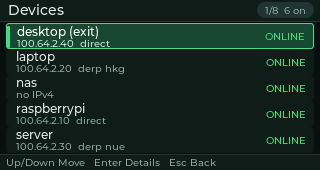
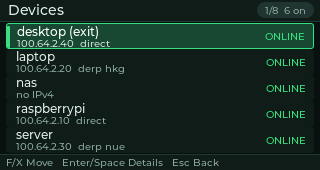
feat(input): letter arrow keys, Space as OK, and held-key auto-repeat
- plain F / X / Z / C act as up / down / left / right without the Fn modifier
  (the Cardputer keyboard prints its arrow shortcuts on those keys and TailZero
  never needs text input); the real arrow keycodes keep working too
- Space is accepted as a redundant confirm key next to Enter/OK
- holding a navigation key auto-repeats after ~0.4 s (one step every 90 ms), so
  long pages such as Network check keep scrolling instead of needing repeated
  taps; Enter/Esc never auto-repeat
- hint bars advertise the letter arrows and Enter/Space
- new tools/device/key-features-test.sh verifies Space-as-OK, letter arrows and
  held-key scrolling on the device through injected uinput keys
- injector gained KEY_SPACE / KEY_KPENTER and always rebuilds from source
- docs, store copy and the four screenshots refreshed for the new hint bars

Changed region(s): [[0.0312, 0.9118, 0.6875, 1.0]]

diff --git a/src/input/keypad.cpp b/src/input/keypad.cpp
@@ -27,6 +27,13 @@ constexpr const char* kPreferredDevices[] = {
     "/dev/input/by-path/platform-3f804000.i2c-event-kbd",
 };
 
+bool is_repeatable_key(uint32_t key) {
+    /* Holding an arrow should keep scrolling long pages instead of requiring
+       repeated taps. Enter/Esc/letters are never auto-repeated. */
+    return key == LV_KEY_UP || key == LV_KEY_DOWN || key == LV_KEY_LEFT ||
+           key == LV_KEY_RIGHT;
+}
+
 bool has_keyboard_keys(int fd) {
     unsigned long key_bits[(KEY_MAX / (sizeof(unsigned long) * 8)) + 1] = {};
     if (ioctl(fd, EVIOCGBIT(EV_KEY, sizeof(key_bits)), key_bits) < 0) {
@@ -65,6 +72,22 @@ uint32_t map_linux_key(uint16_t code) {
             return LV_KEY_HOME;
         case KEY_END:
             return LV_KEY_END;
+        /* Redundant confirm key: Enter/OK and Space both activate. */
+        case KEY_SPACE:
+            return LV_KEY_ENTER;
+
+        /* The Cardputer Zero keyboard has no dedicated arrow keys: the official
+           Fn shortcuts are Fn+F / Fn+X (previous / next) and Fn+Z / Fn+C
+           (left / right). TailZero never needs text input, so the plain letters
+           act as arrow keys as well — no Fn modifier required. */
+        case KEY_F:
+            return LV_KEY_UP;
+        case KEY_X:
+            return LV_KEY_DOWN;
+        case KEY_Z:
+            return LV_KEY_LEFT;
+        case KEY_C:
+            return LV_KEY_RIGHT;
         case KEY_PAGEUP:
             return LV_KEY_PREV;
         case KEY_PAGEDOWN:
@@ -80,12 +103,12 @@ uint32_t map_linux_key(uint16_t code) {
     } kAscii[] = {
         {KEY_1, '1'}, {KEY_2, '2'}, {KEY_3, '3'}, {KEY_4, '4'}, {KEY_5, '5'},
         {KEY_6, '6'}, {KEY_7, '7'}, {KEY_8, '8'}, {KEY_9, '9'}, {KEY_0, '0'},
-        {KEY_A, 'a'}, {KEY_B, 'b'}, {KEY_C, 'c'}, {KEY_D, 'd'}, {KEY_E, 'e'},
-        {KEY_F, 'f'}, {KEY_G, 'g'}, {KEY_H, 'h'}, {KEY_I, 'i'}, {KEY_J, 'j'},
+        {KEY_A, 'a'}, {KEY_B, 'b'}, {KEY_D, 'd'}, {KEY_E, 'e'},
+        {KEY_G, 'g'}, {KEY_H, 'h'}, {KEY_I, 'i'}, {KEY_J, 'j'},
         {KEY_K, 'k'}, {KEY_L, 'l'}, {KEY_M, 'm'}, {KEY_N, 'n'}, {KEY_O, 'o'},
         {KEY_P, 'p'}, {KEY_Q, 'q'}, {KEY_R, 'r'}, {KEY_S, 's'}, {KEY_T, 't'},
-        {KEY_U, 'u'}, {KEY_V, 'v'}, {KEY_W, 'w'}, {KEY_X, 'x'}, {KEY_Y, 'y'},
-        {KEY_Z, 'z'}, {KEY_SPACE, ' '}, {KEY_MINUS, '-'}, {KEY_EQUAL, '='},
+        {KEY_U, 'u'}, {KEY_V, 'v'}, {KEY_W, 'w'}, {KEY_Y, 'y'},
+        {KEY_MINUS, '-'}, {KEY_EQUAL, '='},
         {KEY_DOT, '.'}, {KEY_SLASH, '/'}, {KEY_APOSTROPHE, '\''},
     };
     for (const auto& entry : kAscii) {
@@ -228,15 +251,16 @@ void Keypad::handle_raw_event(uint16_t code, int value) {
         pressed_ = true;
         active_key_ = key;
         press_started_ms_ = lv_tick_get();
+        last_repeat_ms_ = press_started_ms_;
         long_press_sent_ = false;
         if (handler_) {
-            handler_(KeyEvent{key, true, false});
+            handler_(KeyEvent{key, true, false, false});
         }
     }
     else {
         if (pressed_ && active_key_ == key) {
             if (handler_) {
-                handler_(KeyEvent{key, false, false});
+                handler_(KeyEvent{key, false, false, false});
             }
             pressed_ = false;
             active_key_ = 0;
@@ -261,12 +285,26 @@ void Keypad::read_cb(lv_indev_t* indev, lv_indev_data_t* data) {
         data->continue_reading = true;
     }
 
-    /* Long press detection: LVGL polls the indev every few ms. */
-    if (self->pressed_ && !self->long_press_sent_ &&
-        lv_tick_elaps(self->press_started_ms_) >= static_cast<uint32_t>(kLongPressMs)) {
-        self->long_press_sent_ = true;
-        if (self->handler_) {
-            self->handler_(KeyEvent{self->active_key_, true, true});
+    /* Held keys: Esc becomes a long press (exit), navigation keys auto-repeat
+       so long lists / pages keep scrolling while the key is held down. LVGL
+       polls the indev every few ms, which drives both timers. */
+    if (self->pressed_) {
+        const uint32_t held_ms = lv_tick_elaps(self->press_started_ms_);
+        if (self->active_key_ == LV_KEY_ESC) {
+            if (!self->long_press_sent_ && held_ms >= static_cast<uint32_t>(kLongPressMs)) {
+                self->long_press_sent_ = true;
+                if (self->handler_) {
+                    self->handler_(KeyEvent{self->active_key_, true, true, false});
+                }
+            }
+        }
+        else if (is_repeatable_key(self->active_key_) &&
+                 held_ms >= static_cast<uint32_t>(kRepeatDelayMs) &&
+                 lv_tick_elaps(self->last_repeat_ms_) >= static_cast<uint32_t>(kRepeatIntervalMs)) {
+            self->last_repeat_ms_ = lv_tick_get();
+            if (self->handler_) {
+                self->handler_(KeyEvent{self->active_key_, true, false, true});
+            }
         }
     }
 

diff --git a/src/input/keypad.h b/src/input/keypad.h
@@ -22,14 +22,17 @@ namespace tailzero::input {
 struct KeyEvent {
     uint32_t key = 0;        ///< LVGL key code (LV_KEY_UP, LV_KEY_ENTER, ASCII...)
     bool pressed = false;    ///< edge: true = press, false = release
-    bool long_press = false; ///< true once, ~700 ms after the initial press
+    bool long_press = false; ///< true once, ~700 ms after the initial press (Esc)
+    bool repeat = false;     ///< auto-repeat of a held navigation key
 };
 
 using KeyHandler = std::function<bool(const KeyEvent& event)>;
 
 class Keypad {
 public:
-    static constexpr int kLongPressMs = 700;
+    static constexpr int kLongPressMs = 700;   ///< hold Esc to exit
+    static constexpr int kRepeatDelayMs = 420; ///< hold an arrow this long to auto-repeat
+    static constexpr int kRepeatIntervalMs = 90; ///< auto-repeat period
 
     Keypad() = default;
     ~Keypad();
@@ -66,6 +69,7 @@ private:
     bool pressed_ = false;
     uint32_t active_key_ = 0;
     uint32_t press_started_ms_ = 0;
+    uint32_t last_repeat_ms_ = 0;
     bool long_press_sent_ = false;
 };
 

diff --git a/tools/device/uinput-keys.c b/tools/device/uinput-keys.c
@@ -42,7 +42,8 @@ static const struct {
     const char* name;
     int code;
 } kKeys[] = {
-    {"KEY_ESC", KEY_ESC}, {"KEY_ENTER", KEY_ENTER}, {"KEY_UP", KEY_UP},
+    {"KEY_ESC", KEY_ESC}, {"KEY_ENTER", KEY_ENTER}, {"KEY_KPENTER", KEY_KPENTER},
+    {"KEY_SPACE", KEY_SPACE}, {"KEY_UP", KEY_UP},
     {"KEY_DOWN", KEY_DOWN}, {"KEY_LEFT", KEY_LEFT}, {"KEY_RIGHT", KEY_RIGHT},
     {"KEY_BACKSPACE", KEY_BACKSPACE}, {"KEY_TAB", KEY_TAB}, {"KEY_HOME", KEY_HOME},
     {"KEY_A", KEY_A}, {"KEY_B", KEY_B}, {"KEY_C", KEY_C}, {"KEY_D", KEY_D},

diff --git a/src/ui/screens/home_screen.h b/src/ui/screens/home_screen.h
@@ -20,7 +20,7 @@ protected:
     void build_content() override;
     void refresh_content(const AppState& state, UiModel& ui) override;
     const char* hint_text() const override {
-        return "Up/Down Select   Enter Open   Esc Exit (hold)";
+        return "F/X Select   Enter/Space Open   Esc Exit (hold)";
     }
     Page back_page() const override { return Page::Home; }
     void refresh_status(const AppState& state, UiModel& ui) override;

diff --git a/src/ui/screens/devices_screen.h b/src/ui/screens/devices_screen.h
@@ -21,7 +21,7 @@ protected:
     void build_content() override;
     void refresh_content(const AppState& state, UiModel& ui) override;
     const char* hint_text() const override {
-        return "Up/Down Move   Enter Details   Esc Back";
+        return "F/X Move   Enter/Space Details   Esc Back";
     }
     Page back_page() const override { return Page::Home; }
     void refresh_status(const AppState& state, UiModel& ui) override;

diff --git a/src/ui/screens/netcheck_screen.h b/src/ui/screens/netcheck_screen.h
@@ -24,7 +24,7 @@ protected:
     void build_content() override;
     void refresh_content(const AppState& state, UiModel& ui) override;
     const char* hint_text() const override {
-        return "Up/Down Scroll   Enter Rerun   Esc Back";
+        return "F/X Scroll   Enter/Space Rerun   Esc Back";
     }
     Page back_page() const override { return Page::Home; }
     void refresh_status(const AppState& state, UiModel& ui) override;

diff --git a/src/ui/screens/details_screen.h b/src/ui/screens/details_screen.h
@@ -19,7 +19,7 @@ protected:
     void build_content() override;
     void refresh_content(const AppState& state, UiModel& ui) override;
     const char* hint_text() const override {
-        return "Up/Down Action   Enter Run   Esc Back";
+        return "F/X Action   Enter/Space Run   Esc Back";
     }
     Page back_page() const override { return Page::Devices; }
     void refresh_status(const AppState& state, UiModel& ui) override;

diff --git a/src/ui/screens/ping_screen.h b/src/ui/screens/ping_screen.h
@@ -20,7 +20,7 @@ protected:
     void build_content() override;
     void refresh_content(const AppState& state, UiModel& ui) override;
     const char* hint_text() const override {
-        return "Up/Down Action   Enter Run   Esc Back";
+        return "F/X Action   Enter/Space Run   Esc Back";
     }
     Page back_page() const override { return Page::Details; }
     void refresh_status(const AppState& state, UiModel& ui) override;

diff --git a/PUBLISH.md b/PUBLISH.md
@@ -26,9 +26,9 @@ Fields marked **TODO** are not ready for submission.
 
 | Item | Value |
 | --- | --- |
-| Package file (built on device) | `~/tzdev/TailZero-lead/build/deb/tailzero_0.1.0-1_arm64.deb` — **456,076 B** |
+| Package file (built on device) | `~/tzdev/TailZero-lead/build/deb/tailzero_0.1.0-1_arm64.deb` — **456,444 B** |
 | Package filename contract | `tailzero_0.1.0-1_arm64.deb` (`packagename_version-revision_arm64.deb`) |
-| Installed binary | `/usr/bin/tailzero` — 0755 root:root, **1,189,648 B** |
+| Installed binary | `/usr/bin/tailzero` — 0755 root:root, **1,189,624 B** |
 | Installed package state | `dpkg -s tailzero` → `Status: install ok installed`, `0.1.0-1`, `arm64` |
 | Launcher entry | `/usr/share/APPLaunch/applications/tailzero.desktop` |
 | Icon in package | `/usr/share/APPLaunch/share/images/tailzero.png` (+ `_100`, `_80`) |
@@ -43,7 +43,7 @@ Release evidence collected (2026-11-09):
   Re-run against the final tree with the final sanitized screenshots:
   **passed**.
 - `tools/device/package.sh` produced the final `tailzero_0.1.0-1_arm64.deb`
-  (456,076 B) on the device from the final `build/tailzero` (1,189,648 bytes,
+  (456,444 B) on the device from the final `build/tailzero` (1,189,624 bytes,
   ARM64): `Package tailzero`, `Version 0.1.0-1`, `Architecture arm64`,
   `Section utils`, `Priority optional`,
   `Depends: libc6 (>= 2.36), libstdc++6`, `Recommends: tailscale`,
@@ -51,7 +51,7 @@ Release evidence collected (2026-11-09):
   root-owned files, correct modes, `postinst` warn-only.
 - The package was installed and reinstalled on the device from the final source:
   `dpkg -s tailzero` → `Status: install ok installed`, `Version: 0.1.0-1`,
-  `Architecture: arm64`; `/usr/bin/tailzero` is 0755 root:root, 1,189,648 bytes;
+  `Architecture: arm64`; `/usr/bin/tailzero` is 0755 root:root, 1,189,624 bytes;
   `APPLaunch.service` is active.
 - APPLaunch shows the TailZero entry with its icon and the launcher metadata is
   correct (`Exec=/usr/bin/tailzero`, `Terminal=false`). Verified from launcher
@@ -148,10 +148,10 @@ data**.
 
 | File | Size | Content | SHA-256 |
 | --- | --- | --- | --- |
[8 lines of base64/hex data omitted]
 
 Store-contract requirements: exactly four PNGs at 320×170, no emulator chrome or
 borders, four distinct user-relevant states — all satisfied and verified locally
@@ -230,7 +230,7 @@ Notes:
 - [x] README, docs/OPERATOR.md, docs/DEPLOY.md, docs/TESTING.md written
 - [x] Four sanitized screenshots captured and verified (4 × 320×170, clean
       framebuffer, fictional mock-fixture data)
-- [x] Final package built from the real binary (456,076 B) and installed/reinstalled
+- [x] Final package built from the real binary (456,444 B) and installed/reinstalled
       on the device (`dpkg -s tailzero` → install ok installed, 0.1.0-1 arm64)
 - [x] APPLaunch entry with icon/name verified in the launcher
 - [x] Integration checklist (docs/TESTING.md §5 and §7) completed on the device

diff --git a/docs/TESTING.md b/docs/TESTING.md
@@ -220,7 +220,7 @@ README/PUBLISH records refer to.
 
 ### Build and tests
 
-- `pwsh tools/dev.ps1 build -Slot lead` → `build/tailzero` 1,189,648 bytes and
+- `pwsh tools/dev.ps1 build -Slot lead` → `build/tailzero` 1,189,624 bytes and
   `build/tailzero-ui-preview`; LVGL 9.5.0 prebuilt static, keyed on
   `src/config/lv_conf.h`; zero compiler warnings in `src/ui` and `src/preview`.
 - `pwsh tools/dev.ps1 test -Slot backend` → **83/83 tests passed**: `json_lite`,
@@ -248,12 +248,19 @@ README/PUBLISH records refer to.
   (`tools/device/key-test.sh`): app opens the device, Up/Down selection,
   Enter (Devices → Details → Ping), Esc back and long-Esc clean exit
   ("shutting down") → **PASS**; step screenshots under `.recon/keytest/`.
+- Letter arrows, Space-as-OK and auto-repeat (`tools/device/key-features-test.sh`,
+  injected `KEY_SPACE` / `KEY_X` / `KEY_F` / held `KEY_X`): Space on Home opens
+  Devices exactly like Enter, plain `X` moves the Devices selection down twice
+  (1/8 → 2/8 → 3/8), plain `F` moves it back up (2/8), and holding `X` on the
+  Network check page scrolls continuously from the first rows down to the
+  region-latency rows (~2 s hold) → **PASS**; captures under `.recon/keyfeat/`.
+  The hint bars show `F/X Move`, `Enter/Space`, `F/X Scroll`, etc.
 - Performance (`tools/device/measure.sh`): startup-to-ready **167 ms**, CPU
   **1.5 %** idle with the 5 s refresh, VmRSS **4.4 MB** (VmHWM 4.4 MB), 2 threads,
   6 open fds, binary 1.19 MB.
-- Package/launcher: the final `tailzero_0.1.0-1_arm64.deb` is 456,076 B;
+- Package/launcher: the final `tailzero_0.1.0-1_arm64.deb` is 456,444 B;
   `dpkg -s tailzero` → `install ok installed`, version `0.1.0-1`, arm64;
-  `/usr/bin/tailzero` 0755 root:root 1,189,648 bytes; APPLaunch is active and
+  `/usr/bin/tailzero` 0755 root:root 1,189,624 bytes; APPLaunch is active and
   shows the entry with the TailZero name and icon (`Exec=/usr/bin/tailzero`,
   `Terminal=false`).
 
@@ -282,6 +289,7 @@ All under `tools/device/`; developer-only, **none are shipped in the `.deb`**:
 | `package.sh` | Stage the APPLaunch layout and build the `.deb` |
 | `install-deb.sh` | Validate + `dpkg -i` + APPLaunch restart (`--dry-run`, `--no-build`) |
 | `key-test.sh` | End-to-end physical-key test through uinput, with per-step captures |
+| `key-features-test.sh` | Verifies plain F/X/Z/C arrow keys (no Fn needed) and held-key auto-repeat scrolling |
 | `measure.sh` | Startup latency, CPU%, VmRSS/VmHWM, threads, fds (`measure.sh <binary> [secs] [page]`) |
 | `launcher-integration.sh` | APPLaunch entry/carousel/child-launch check (`[right-presses]`, default 25) |
 | `uinput-keys.c` | uinput virtual-keyboard injector used by the two scripts above |

diff --git a/README.md b/README.md
@@ -59,12 +59,20 @@ JSON, and the daemon restarting while the app is open.
 
 | Key | Action |
 | --- | --- |
-| `Up` / `Down` | Move the selection (lists scroll to keep it visible) |
-| `Left` / `Right` | Secondary action / value navigation where offered |
-| `Enter` | Activate the selected menu item or button |
+| `F` / `X` (or `Up` / `Down`) | Move the selection (lists scroll to keep it visible) |
+| `Z` / `C` (or `Left` / `Right`) | Secondary action / horizontal movement where offered |
+| `Enter` / `Space` | Activate the selected menu item or button (both keys confirm) |
 | `Esc` | Back: leave the current page, return to Home, or close a dialog |
 | `Esc` (hold ~0.7 s) | Exit TailZero cleanly (works on every page) |
 | `1` … `5` | Jump directly to Home, Devices, Device details, Ping, Network check |
+
+Both `Enter` (the OK key) and the space bar confirm the current selection, so
+either hand position works. The plain letter keys `F` / `X` / `Z` / `C` work as arrow keys without the
+`Fn` modifier: the Cardputer Zero prints its arrow shortcuts on those keys, and
+TailZero never needs text input, so the letters are mapped to directions. Holding
+an arrow key for ~0.4 s starts auto-repeat (one step every 90 ms), which is how
+long pages such as **Network check** keep scrolling; a single tap still moves one
+step.
 
 A short `Esc` never exits the app; on the Home page it shows the hint
 "Hold Esc to quit". This follows the Cardputer Zero launcher contract, which may
@@ -260,7 +268,7 @@ Measured on the reference device (Debian 13 trixie aarch64, g++ 14.2,
 cmake 3.31.6, LVGL 9.5.0 linked statically, Tailscale 1.104.5):
 
 - Build clean with zero warnings in `src/ui` and `src/preview`;
-  `build/tailzero` is 1,189,648 bytes.
+  `build/tailzero` is 1,189,624 bytes.
 - **83/83** unit tests pass (`pwsh tools/dev.ps1 test`).
 - Real tailnet: 12 peers / 6 online, direct ping 8–61 ms, netcheck UDP + IPv4 +
   IPv6 OK, UPnP/NAT-PMP/PCP mapping, preferred DERP `hkg`; `tailscale down`/`up`
